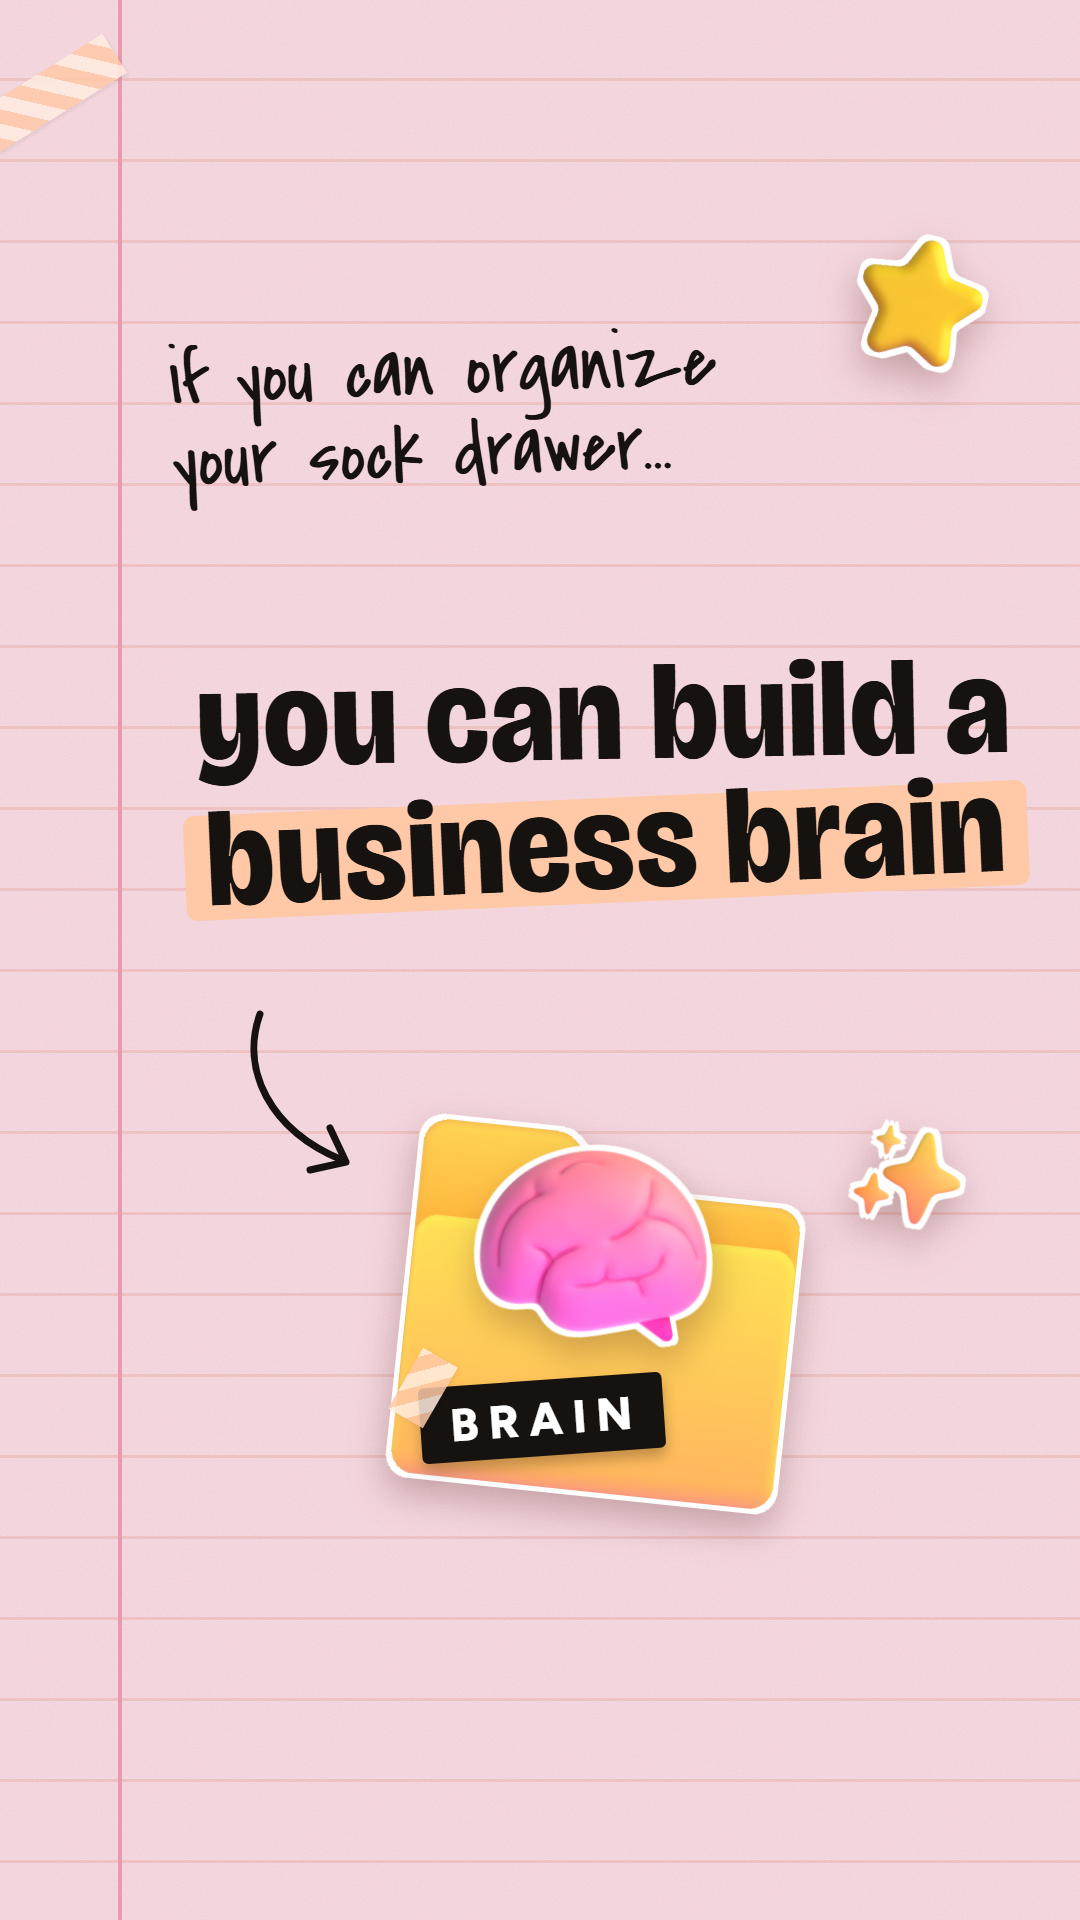
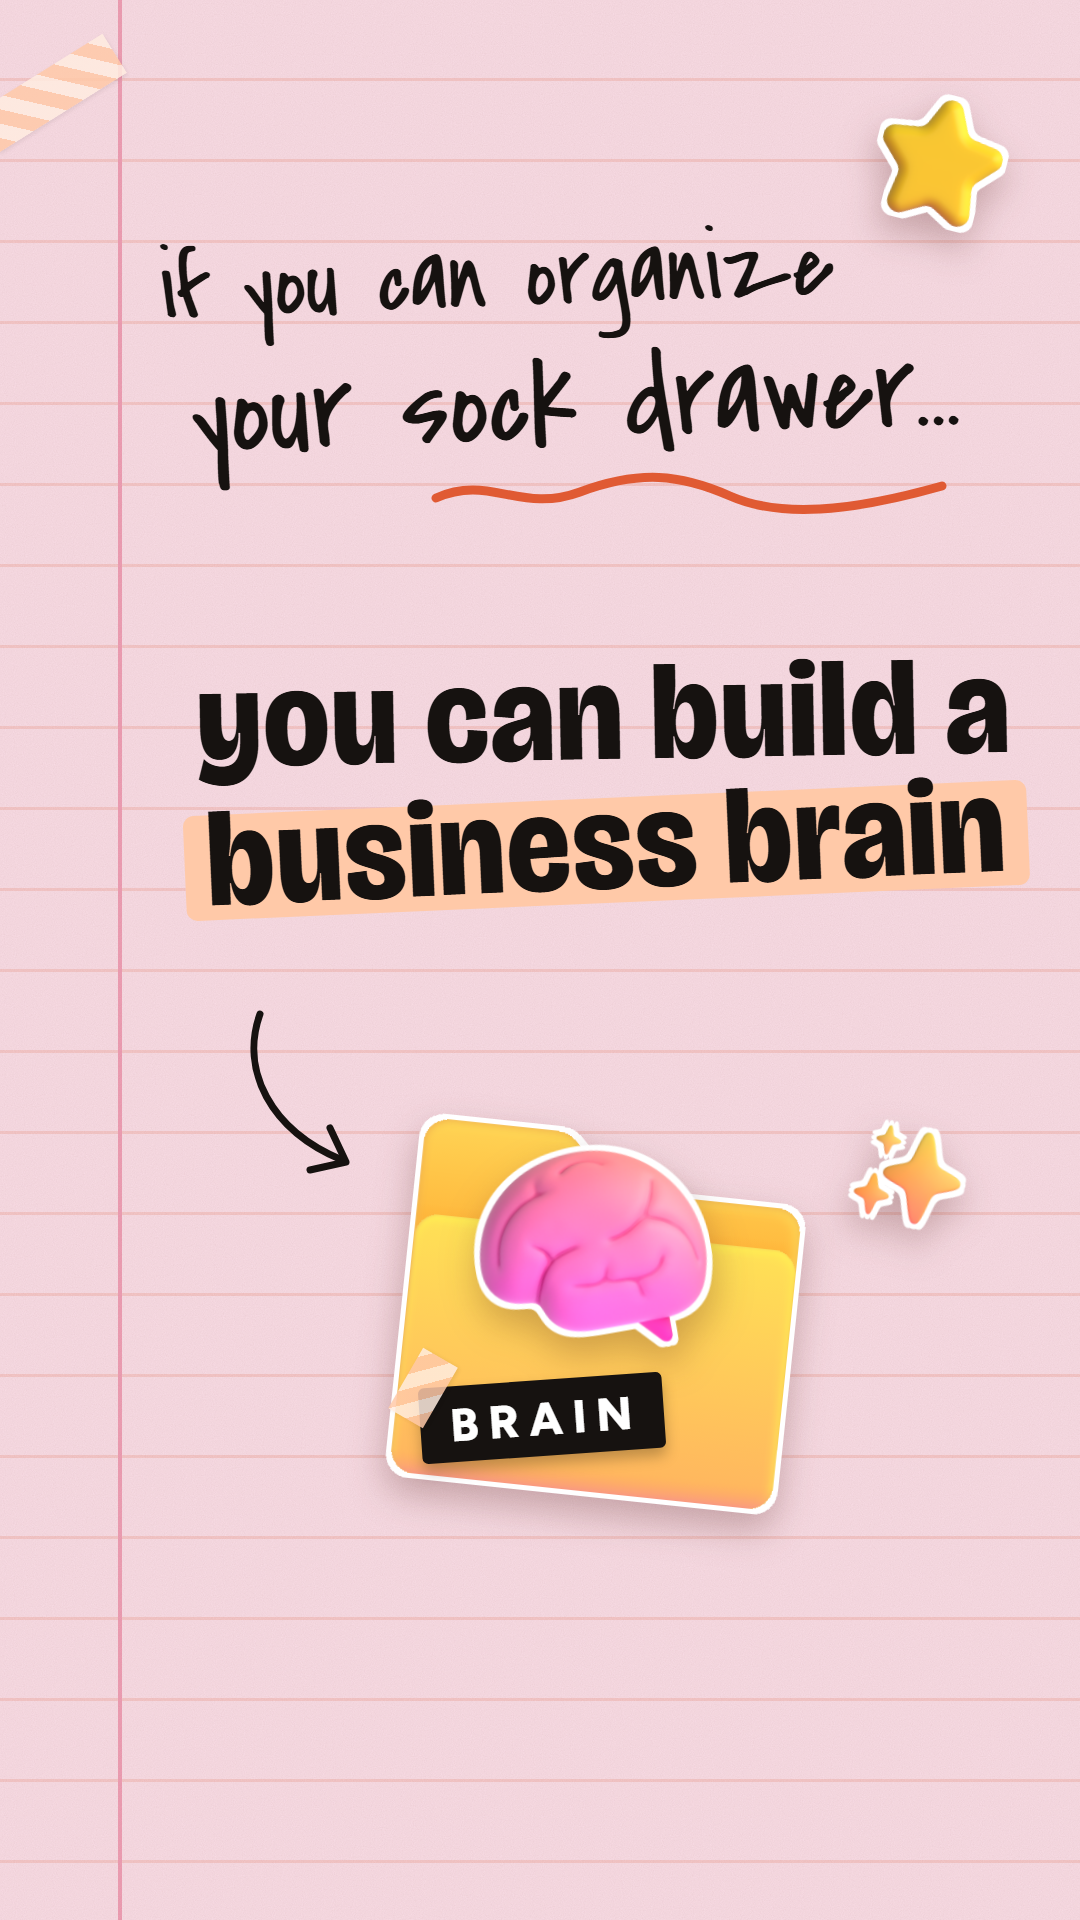
Reel engine: desk-scene still v3 (v1's bigger handwriting + squiggle back)

Changed region(s): [[0.1528, 0.0312, 0.9472, 0.2812], [0.6417, 0.25, 0.8861, 0.2812]]

diff --git a/automation/reel-hf/_proto-desk-flatlay/still.html b/automation/reel-hf/_proto-desk-flatlay/still.html
@@ -36,8 +36,10 @@ html,body{width:1080px;height:1920px;overflow:hidden}
   <div class="tape" style="left:-24px;top:70px;rotate:-32deg"></div>
 
   <!-- the setup line: a small handwritten aside -->
-  <div class="abs hand" style="left:170px;top:330px;font-size:78px;rotate:-2deg">if you can organize<br>your sock drawer...</div>
-  <img class="abs stk" src="assets/stickers/star_3d.png" style="left:850px;top:230px;width:140px;rotate:14deg">
+  <div class="abs hand" style="left:160px;top:230px;font-size:96px;line-height:1;rotate:-2deg">if you can organize</div>
+  <div class="abs hand" style="left:190px;top:342px;font-size:120px;line-height:1;rotate:-2deg">your sock drawer...</div>
+  <svg class="abs" style="left:430px;top:468px" width="520" height="50" viewBox="0 0 520 50"><path d="M6 30 C 60 6, 90 46, 150 24 S 250 6, 300 28 S 420 44, 512 18" fill="none" stroke="#E05A33" stroke-width="9" stroke-linecap="round"/></svg>
+  <img class="abs stk" src="assets/stickers/star_3d.png" style="left:870px;top:90px;width:140px;rotate:14deg">
 
   <!-- the hero -->
   <div class="abs big" style="left:150px;right:20px;top:650px;font-size:136px;rotate:-1deg">you can build a<br><span class="mk"><span class="mkbg"></span><span class="mkt">business brain</span></span></div>
